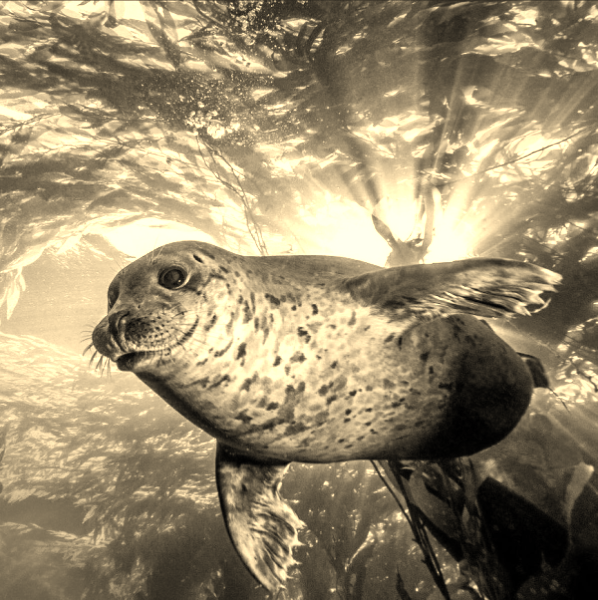
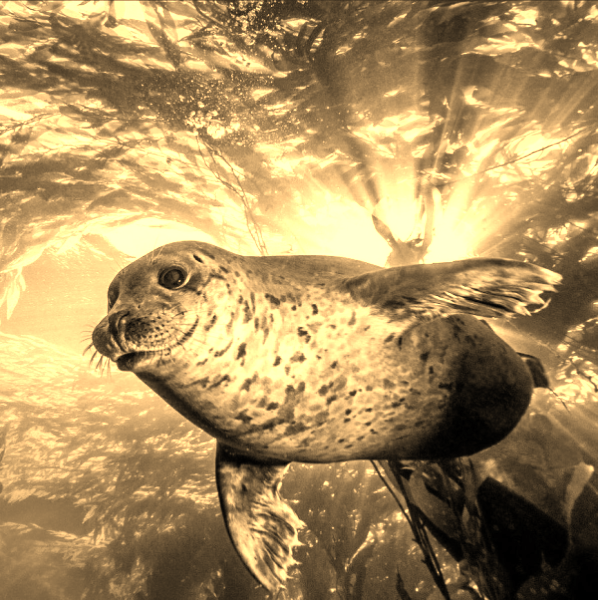
fixing sepia filter

diff --git a/src/pages/Sepia.js b/src/pages/Sepia.js
@@ -72,17 +72,24 @@ export default function Sepia() {
     // Read pixel data
     const imageData = sctx.getImageData(0, 0, src.width, src.height);
     const data = imageData.data;
-    //const levels = Math.round(2 + ((100 - blurPct) / 100) * 62);
 
+    const intensity = blurPct / 100; // 0–1 blend amount
     for (let i = 0; i < data.length; i += 4) {
       let r = data[i];
       let g = data[i + 1];
       let b = data[i + 2];
 
-      data[i] = Math.min(0.393 * r + 0.769 * g + 0.189 * b, 255);
-      data[i + 1] = Math.min(0.349 * r + 0.686 * g + 0.168 * b, 255);
-      data[i + 2] = Math.min(0.272 * r + 0.534 * g + 0.131 * b, 255);
+      // full sepia result
+      const sepiaR = Math.min((0.393 * r + 0.769 * g + 0.189 * b) * 1.18, 255);
+      const sepiaG = Math.min((0.349 * r + 0.686 * g + 0.168 * b) * 1.05, 255);
+      const sepiaB = Math.min((0.272 * r + 0.534 * g + 0.131 * b) * 0.88, 255);
+
+      // interpolate between original and sepia
+      data[i]     = r + (sepiaR - r) * intensity;
+      data[i + 1] = g + (sepiaG - g) * intensity;
+      data[i + 2] = b + (sepiaB - b) * intensity;
     }
+
     dctx.putImageData(imageData, 0, 0);
     setHasProcessed(true);
     };
@@ -189,93 +196,3 @@ export default function Sepia() {
     </div>
   );
 }
-
-
-// import React, { useEffect, useRef, useState } from "react";
-// import { useNavigate } from "react-router-dom";
-// import "./ImageBlur.css"; 
-
-// export default function Sepia() {
-//   const [originalImage, setOriginalImage] = useState(null);
-//   const [processedImage, setProcessedImage] = useState(null);
-
-//   const handleImageUpload = (event) => {
-//     const file = event.target.files[0];
-//     if (!file) return;
-
-//     const reader = new FileReader();
-//     reader.onload = (e) => setOriginalImage(e.target.result);
-//     reader.readAsDataURL(file);
-//   };
-
-//   const applySepia = () => {
-//     if (!originalImage) return;
-
-//     const img = new Image();
-//     img.src = originalImage;
-
-//     img.onload = () => {
-//       const canvas = document.createElement("canvas");
-//       const ctx = canvas.getContext("2d");
-
-//       canvas.width = img.width;
-//       canvas.height = img.height;
-//       ctx.drawImage(img, 0, 0);
-
-//       const imgData = ctx.getImageData(0, 0, canvas.width, canvas.height);
-//       const data = imgData.data;
-
-//       for (let i = 0; i < data.length; i += 4) {
-//         let r = data[i];
-//         let g = data[i + 1];
-//         let b = data[i + 2];
-
-//         data[i]     = Math.min(0.393 * r + 0.769 * g + 0.189 * b, 255);
-//         data[i + 1] = Math.min(0.349 * r + 0.686 * g + 0.168 * b, 255);
-//         data[i + 2] = Math.min(0.272 * r + 0.534 * g + 0.131 * b, 255);
-//       }
-
-//       ctx.putImageData(imgData, 0, 0);
-//       setProcessedImage(canvas.toDataURL());
-//     };
-//   };
-
-//   return (
-//     <div className="image-blur-container">
-//       <a href="/" className="back-button">← Back to Home</a>
-
-//       <h1 className="page-title">Sepia Tone Filter</h1>
-
-//       <div className="controls-container">
-//         <label className="upload-button">
-//           Choose Image
-//           <input type="file" accept="image/*" onChange={handleImageUpload} />
-//         </label>
-
-//         <button className="process-button" onClick={applySepia}>
-//           Apply Sepia
-//         </button>
-//       </div>
-
-//       <div className="image-display-wrapper">
-//         <div className="image-box">
-//           <h2>Original</h2>
-//           {originalImage ? (
-//             <img src={originalImage} alt="original" className="image-preview" />
-//           ) : (
-//             <div className="placeholder-box" />
-//           )}
-//         </div>
-
-//         <div className="image-box">
-//           <h2>Processed</h2>
-//           {processedImage ? (
-//             <img src={processedImage} alt="sepia" className="image-preview" />
-//           ) : (
-//             <div className="placeholder-box" />
-//           )}
-//         </div>
-//       </div>
-//     </div>
-//   );
-// } 
